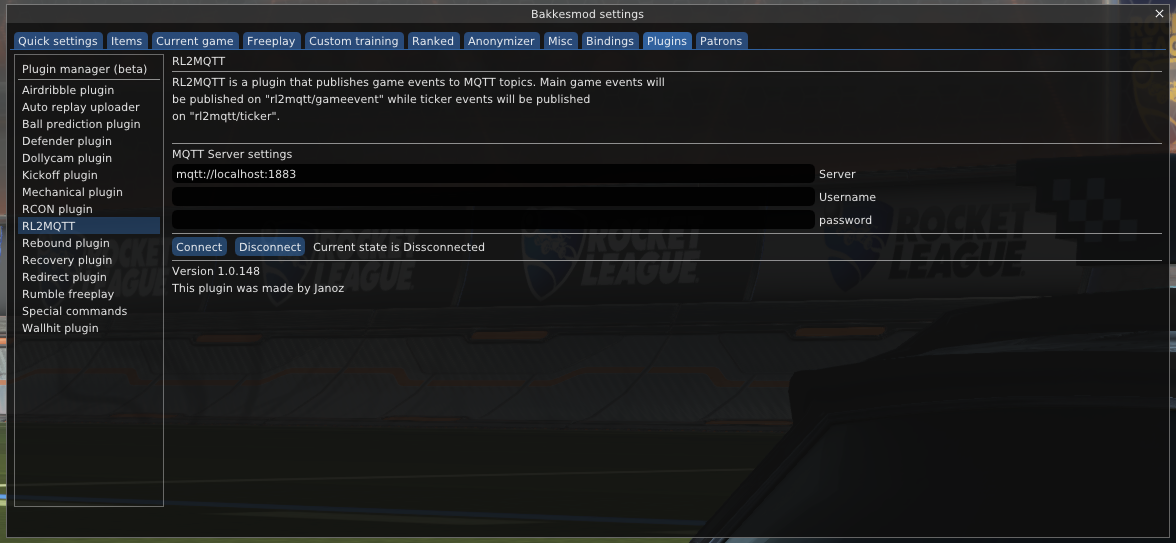
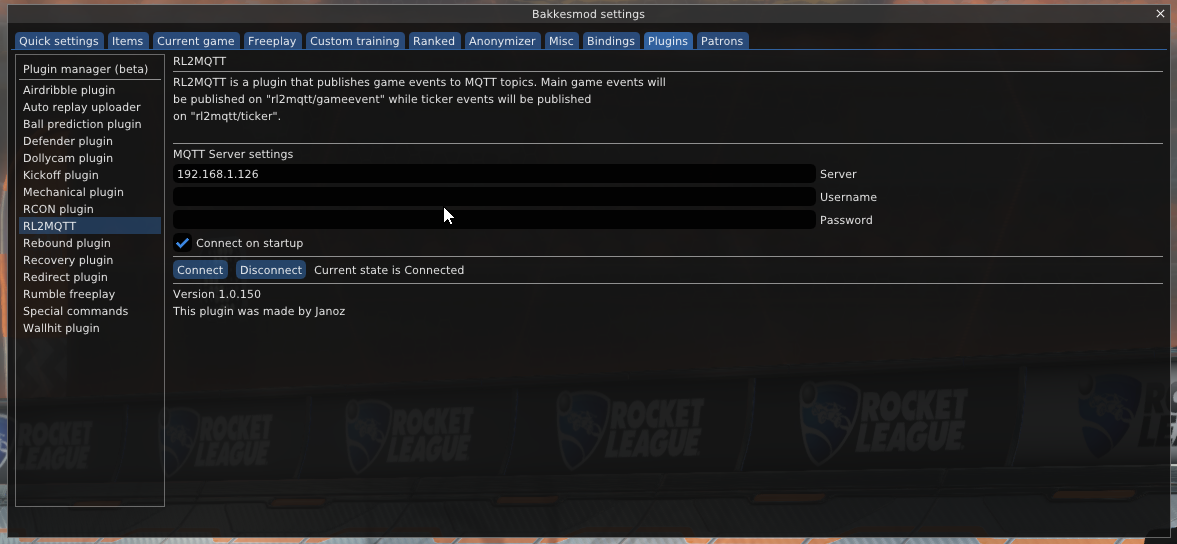
Added connect on startup functionality

diff --git a/source/RL2MQTT/Rl2Mqtt.h b/source/RL2MQTT/Rl2Mqtt.h
@@ -7,11 +7,13 @@
 
 constexpr auto plugin_version = stringify(VERSION_MAJOR) "." stringify(VERSION_MINOR) "." stringify(VERSION_BUILD);
 
-#define CVAR_MQTT_SERVER	"rl2mqtt_server"
-#define CVAR_MQTT_USERNAME	"rl2mqtt_username"
-#define CVAR_MQTT_PASSWORD	"rl2mqtt_password"
-#define CVAR_MQTT_STATUS	"rl2mqtt_status"
-#define	CVAR_MQTT_VERSION	"rl2mqtt_version"
+#define CVAR_MQTT_SERVER				"rl2mqtt_server"
+#define CVAR_MQTT_USERNAME				"rl2mqtt_username"
+#define CVAR_MQTT_PASSWORD				"rl2mqtt_password"
+#define CVAR_MQTT_STATUS				"rl2mqtt_status"
+#define	CVAR_MQTT_VERSION				"rl2mqtt_version"
+#define CVAR_MQTT_CONNECT_ON_STARTUP	"rl2mqtt_connect-on-startup"
+
 #define COMMAND_MQTT_CONNECT	"rl2mqtt_connect"
 #define COMMAND_MQTT_DISCONNECT	"rl2mqtt_disconnect"
 

diff --git a/source/RL2MQTT/Rl2Mqtt.cpp b/source/RL2MQTT/Rl2Mqtt.cpp
@@ -49,6 +49,16 @@ void Rl2Mqtt::onLoad()
 	cvarManager->registerCvar(CVAR_MQTT_SERVER, "mqtt://localhost:1883", "MQTT server");
 	cvarManager->registerCvar(CVAR_MQTT_USERNAME, "", "MQTT Username");
 	cvarManager->registerCvar(CVAR_MQTT_PASSWORD, "", "MQTT Password");
+	cvarManager->registerCvar(CVAR_MQTT_CONNECT_ON_STARTUP, "0", "Connect on startup", true, true, 0, true, 1).addOnValueChanged([this](std::string oldValue, CVarWrapper cvar)
+		{
+			if (cvar.getBoolValue())
+			{
+				gameWrapper->Execute([this](GameWrapper* gw) {
+					cvarManager->executeCommand("sleep 2000; " COMMAND_MQTT_CONNECT);
+				});
+			}
+		}
+	);
 
 	// Status container
 	cvarManager->registerCvar(CVAR_MQTT_VERSION, plugin_version, "Plugin version", false, false, 0, false, 0, false);

diff --git a/source/RL2MQTT/version.h b/source/RL2MQTT/version.h
@@ -1,7 +1,7 @@
 #pragma once
 #define VERSION_MAJOR 1
 #define VERSION_MINOR 0
-#define VERSION_BUILD 148
+#define VERSION_BUILD 150
 
 #define stringify(a) stringify_(a)
 #define stringify_(a) #a

diff --git a/README.md b/README.md
@@ -28,6 +28,8 @@ an IP address is enough. Optionaly you can also configure a username and passwor
 
 To connect use `rl2mqtt_connect` and to disconnect `rl2mqtt_disconnect`.
 
+You can automatically connect on startup by setting `rl2mqtt_connect-on-startup 1`.
+
 ## Game event messages
 
 Game events are hooks in the game which trigger a message on certain events. THe message 
